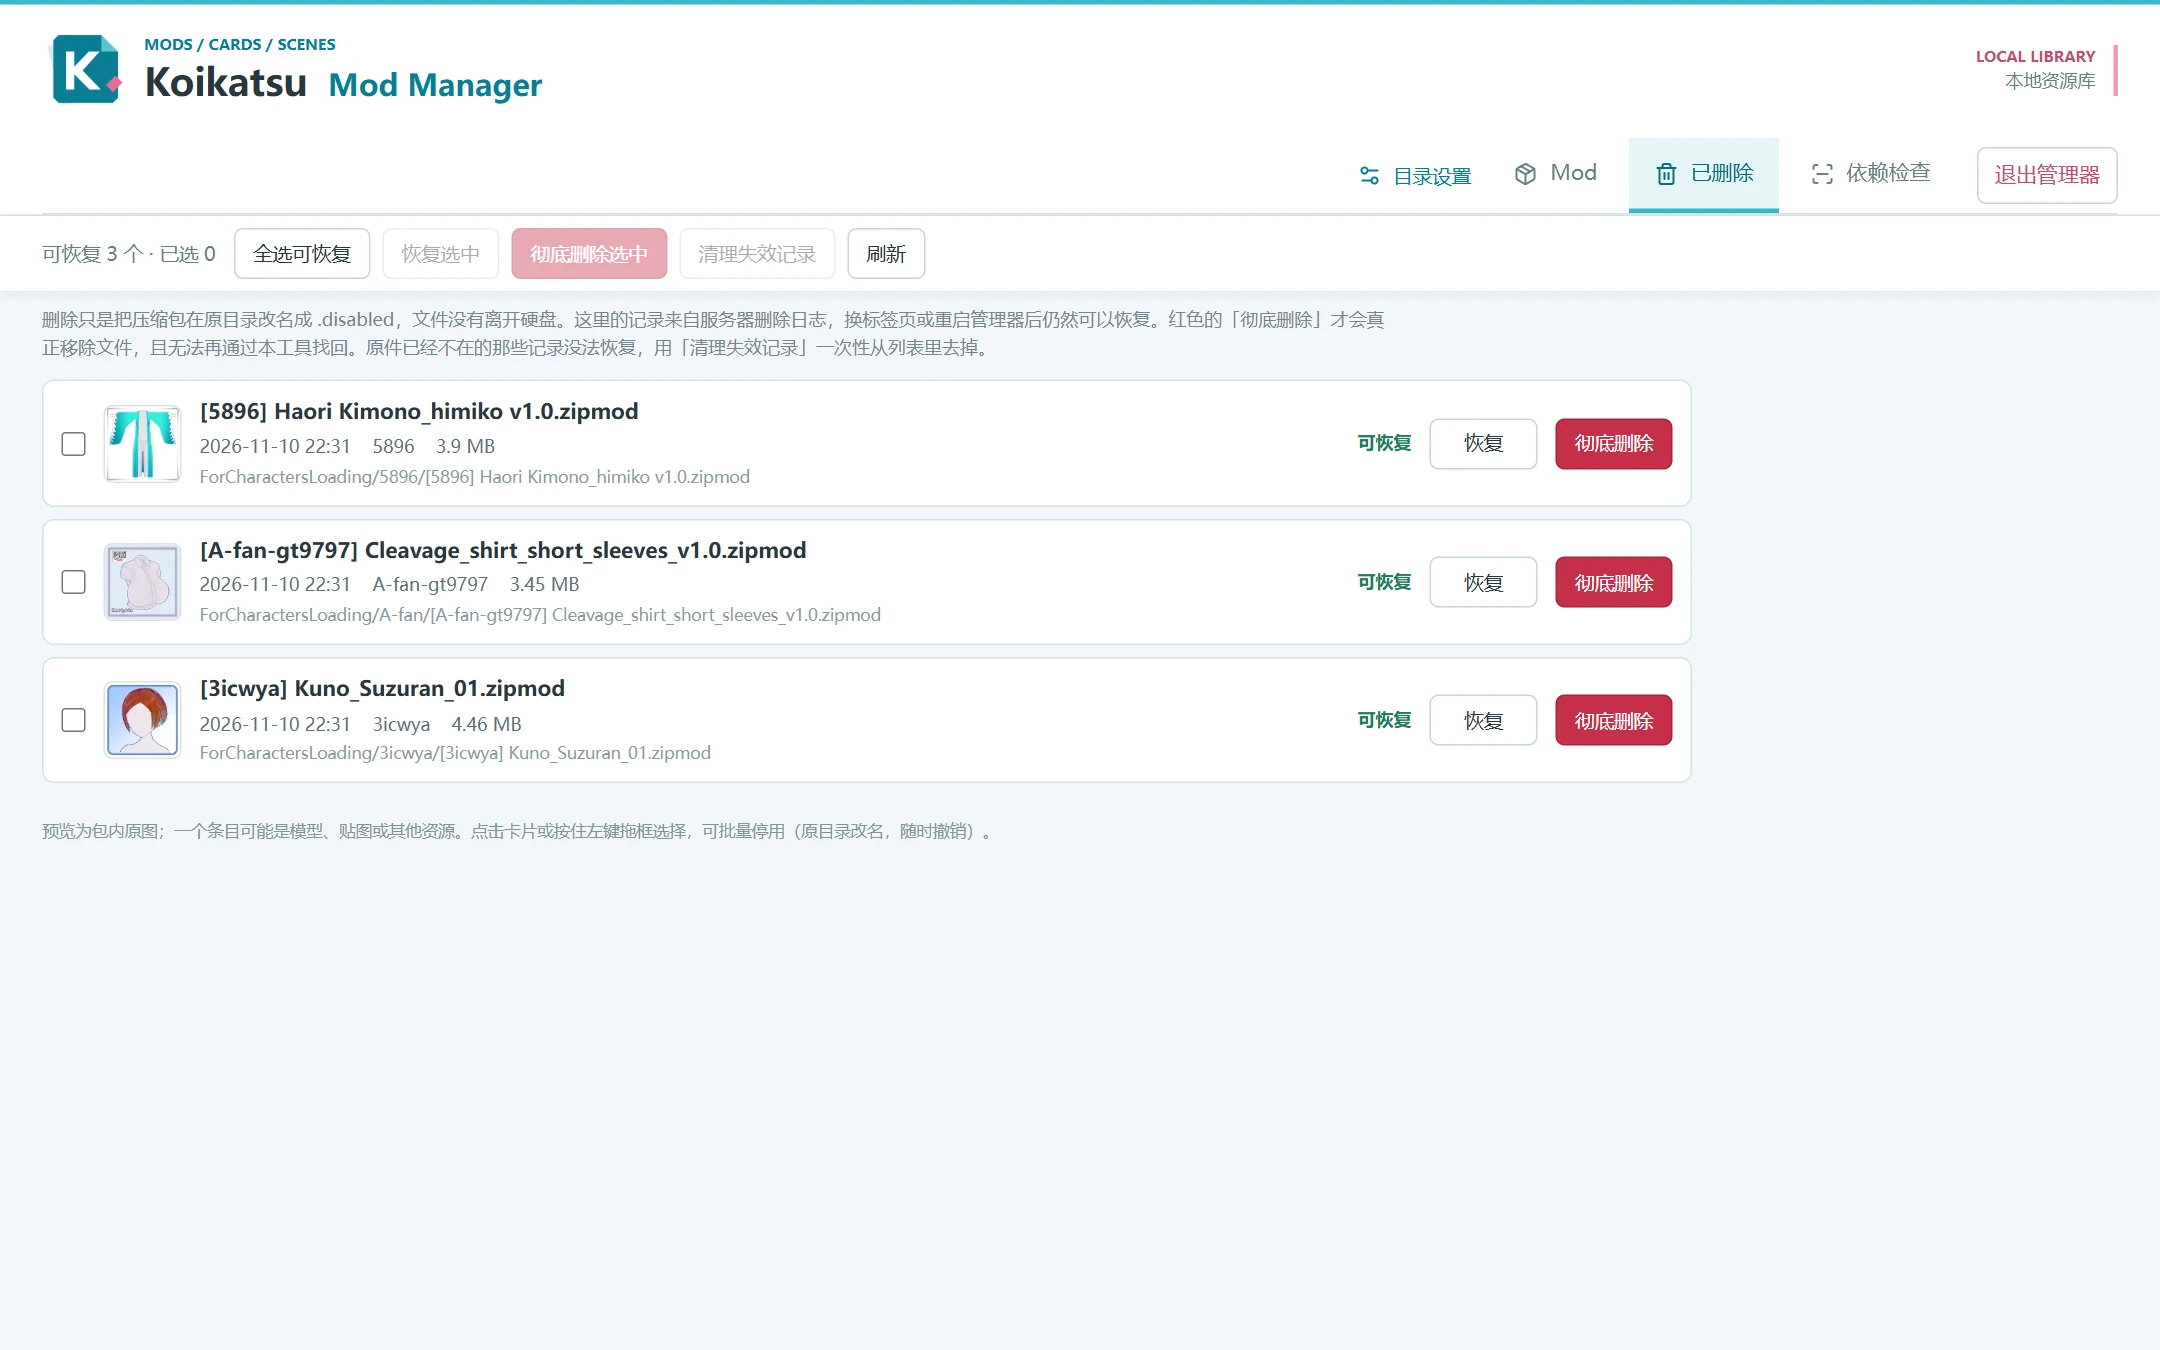
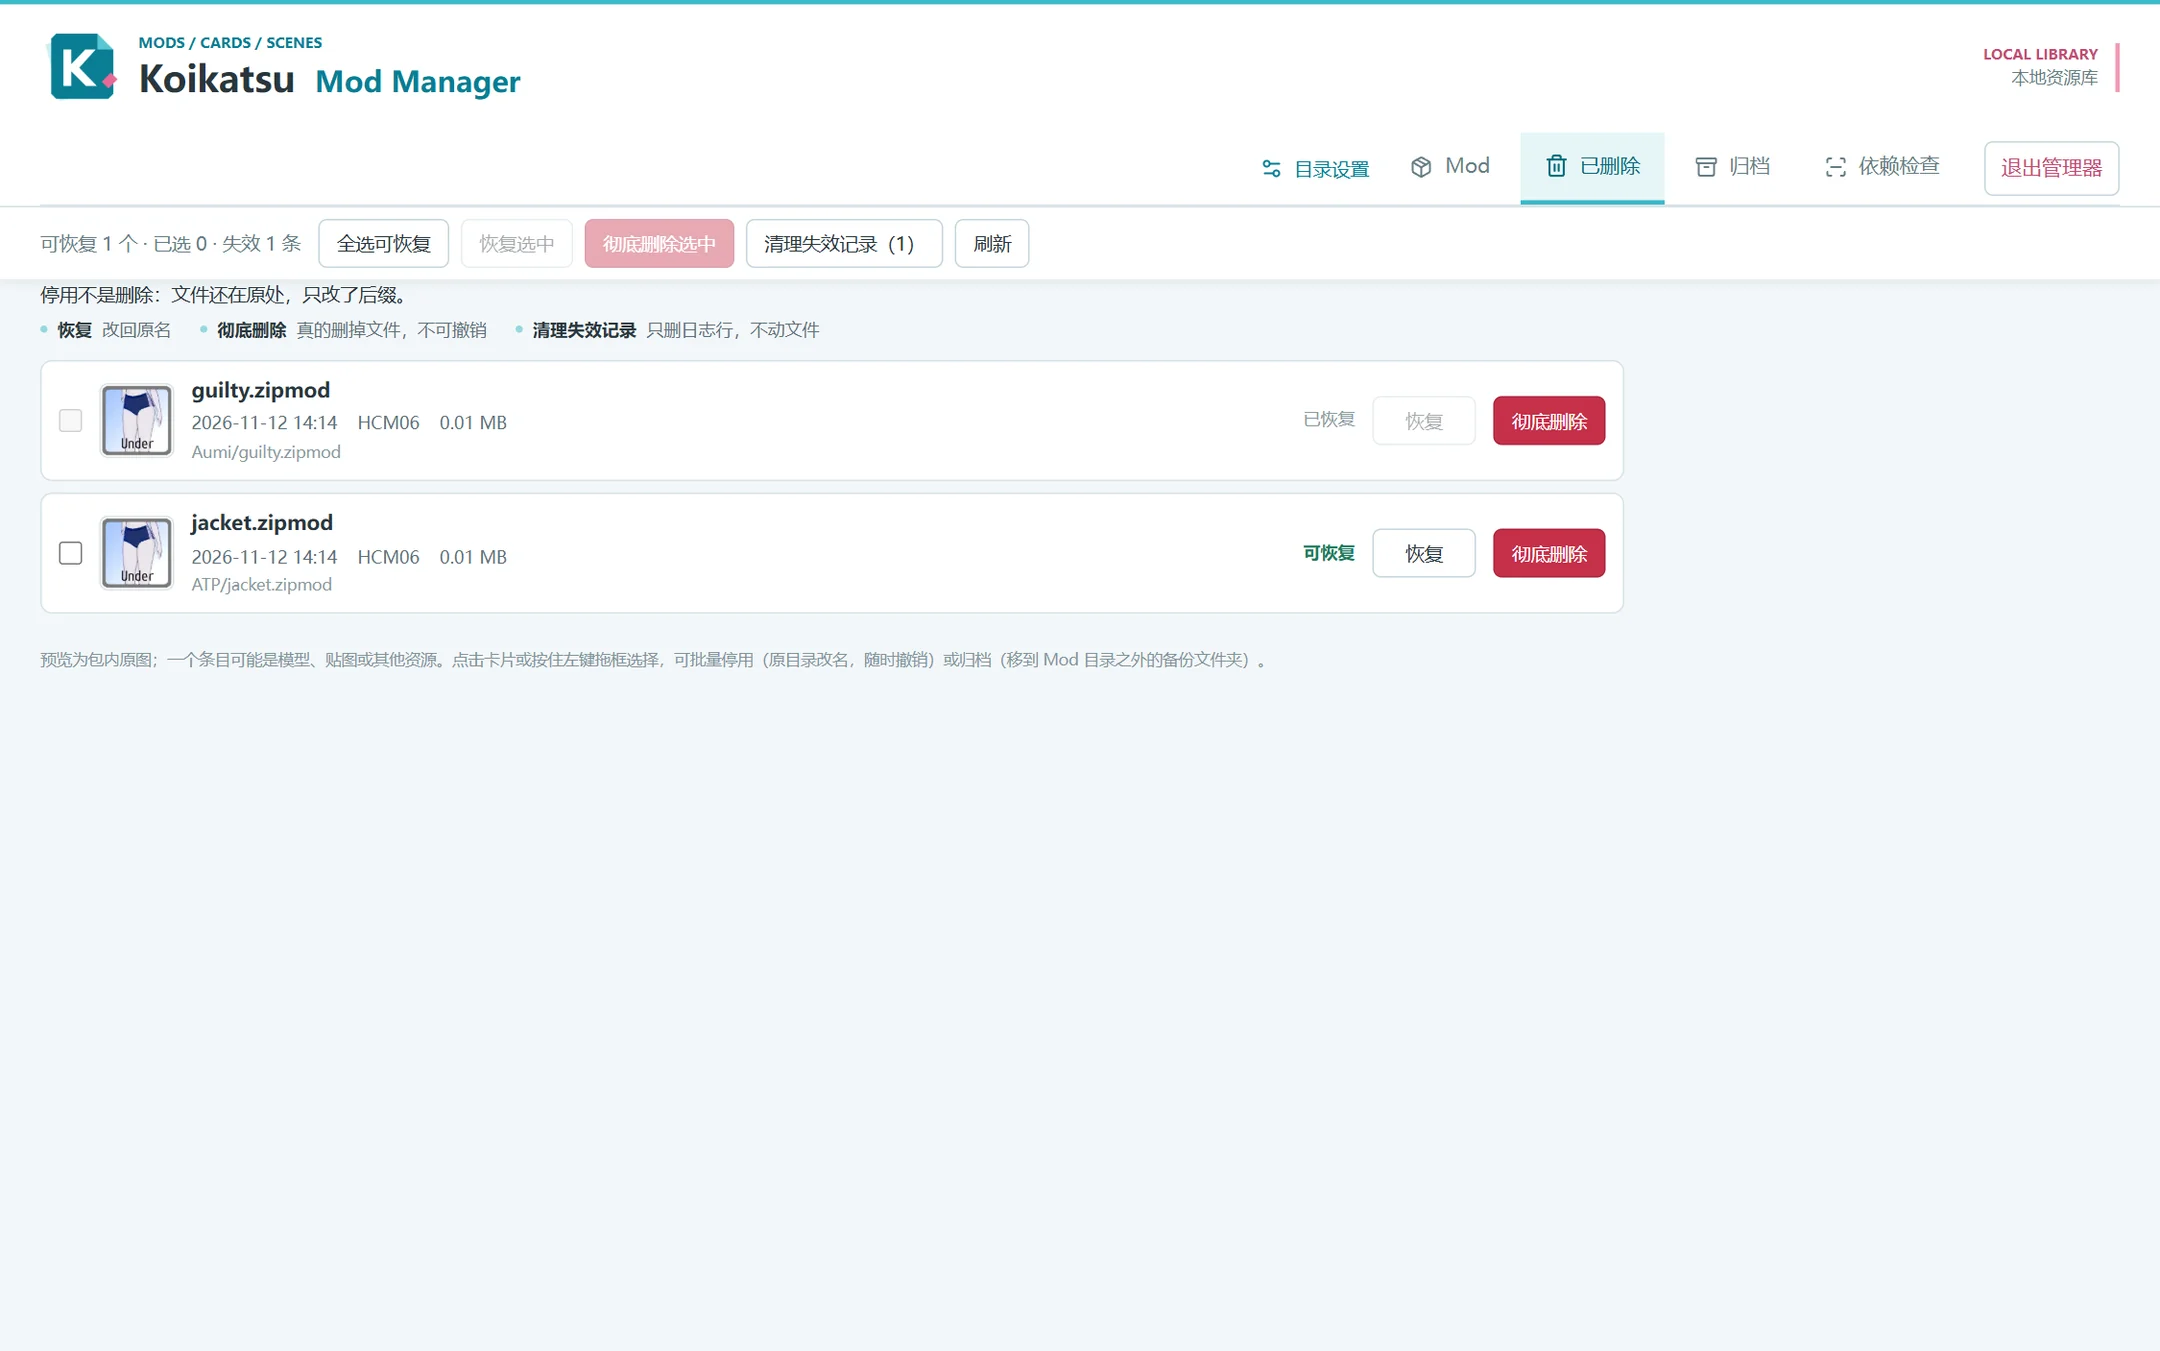
已删除/归档页提示改成一句结论 + 按钮说明
原来是一段四五句的说明，用户读不完也不知道哪个按钮干什么。改成：
- KK.hint() 统一形状：一句导语说这页是什么，配一行「按钮 → 对文件做了什么」，
  圆点分隔，导语用正文色、说明用弱化色，两行读完
- 已删除：停用不是删除 → 恢复/彻底删除/清理失效记录 各自后果
- 归档：移到哪个文件夹 → 取回/本页不删除任何文件
- 不再把 archive-log.jsonl、delete-log.jsonl 这类实现细节写给用户看
- README 的叉号/向下箭头描述同步成图标，trash.webp 用临时根重拍（有两行真实记录）

diff --git a/view-archive.js b/view-archive.js
@@ -45,7 +45,7 @@
   const element = el('div');
   element.id = 'archiveList';
 
-  const help = el('p', '', 'notice trash-help');
+  let help = el('p', '', 'notice page-hint trash-help');
   element.append(help);
 
   const list = el('div', '', 'trash-rows');
@@ -71,12 +71,15 @@
     return ['可取回', 'ready'];
   }
 
-  function helpText() {
+  /* The folder is a setting, so the sentence naming it is rewritten with the
+     list: a stale path would be worse than no sentence at all. Everything else
+     the old paragraph explained is one line of "button does consequence". */
+  function renderHelp() {
     const where = root ? `「${root}」` : '归档文件夹';
-    return '归档会把压缩包整个移动到 ' + where + '，保留它原来的相对路径，'
-      + '游戏不会再加载它，包内文件也不会被改动。'
-      + '这里的记录来自归档文件夹里的 archive-log.jsonl，'
-      + '「取回」会把文件放回 Mod 目录的原位置。本页不会删除任何文件。';
+    return KK.hint(
+      `归档把整个包移到${where}，游戏不会加载它，包内文件一个字节都不改。`,
+      [['取回', '放回 Mod 目录的原位置']],
+      '本页不会删除任何文件', help);
   }
 
   function updateChrome() {
@@ -115,9 +118,9 @@
 
   function renderRows() {
     list.replaceChildren();
-    help.textContent = helpText();
+    help = renderHelp();
     if (!items.length) {
-      list.append(el('p', '还没有任何归档。在 Mod 页点卡片右上角的 ↓，或勾选后点「归档选中」。',
+      list.append(el('p', '还没有任何归档。在 Mod 页点卡片右上角的归档按钮，或勾选后点「归档选中」。',
         'notice'));
       updateChrome();
       return;

diff --git a/app-core.js b/app-core.js
@@ -31,6 +31,25 @@
     return node;
   }
 
+  /* The line above a long list only gets read once, and in a hurry. A paragraph
+     of caveats buries the three things that matter: what this list is, what each
+     button does to a file, and whether any of it is permanent. So: one sentence,
+     then "<button> does <consequence>" pairs. Both the deleted and the archive
+     page say this kind of thing, hence one shape for both. Pass an existing node
+     as `into` when the sentence depends on data that arrives later (the archive
+     page names a configurable folder). */
+  function hint(lead, entries, note, into) {
+    const box = into || el('p', undefined, 'notice page-hint');
+    box.replaceChildren(el('span', lead, 'hint-lead'));
+    for (const [name, meaning] of entries || []) {
+      const pair = el('span', undefined, 'hint-key');
+      pair.append(el('b', name), el('span', meaning));
+      box.append(pair);
+    }
+    if (note) box.append(el('span', note, 'hint-note'));
+    return box;
+  }
+
   const views = [];
   const modHooks = [];
   const facets = [];
@@ -312,7 +331,7 @@
     onModCard,
     applyModHooks: (record, card, meta) => applyHooks(modHooks, record, card, meta),
     setStatus, getStatus: () => statusText,
-    preserveViewport, el, $, link,
+    preserveViewport, el, $, link, hint,
     search: window.KK_MOD_SEARCH ? window.KK_MOD_SEARCH.create() : null,
     currentView: () => active && active.id
   };

diff --git a/maintenance/Test-ModTrash.js b/maintenance/Test-ModTrash.js
@@ -88,6 +88,19 @@ tick().then(() => {
   assert.match($('trashClean').textContent, /清理失效记录（1）/);
   assert.equal($('trashRestore').disabled, true, 'nothing selected yet');
   assert.equal($('trashPurge').disabled, true, 'nothing selected yet');
+
+  /* The hint is read once, in a hurry: one sentence saying what the list is,
+     then each button with what it does to a file. A paragraph of the same facts
+     was what got replaced, so keep it to that shape. */
+  const hint = $('trashList').querySelector('.page-hint');
+  assert.ok(hint, 'the page explains itself above the list');
+  assert.match(hint.querySelector('.hint-lead').textContent, /文件还在原处/);
+  assert.deepEqual(
+    Array.from(hint.querySelectorAll('.hint-key b')).map(node => node.textContent),
+    ['恢复', '彻底删除', '清理失效记录'],
+    'every button on the bar is explained in one place');
+  assert.ok(!/delete-log\.jsonl/.test(hint.textContent),
+    'the log filename is an implementation detail, not a user-facing fact');
   // Restoring is the safe half of the pair, so it stays a plain white button;
   // only the irreversible purge borrows the accent colour.
   assert.equal($('trashRestore').classList.contains('bulk-action'), true);

diff --git a/manager.css b/manager.css
@@ -164,6 +164,18 @@ button:focus-visible{outline:2px solid #175a89;outline-offset:2px}
 #trashList{padding:0 28px 24px}
 #archiveList{padding:0 28px 24px}
 .trash-help{max-width:900px;line-height:1.6}
+/* One sentence for context, then a row of "<button> does <what to the file>".
+   The dots do the separating, so the row stays readable when it wraps. The
+   .notice specificity is deliberate: theme.css loads after this file and would
+   otherwise turn the whole line grey. */
+.notice.page-hint{max-width:1100px;display:flex;flex-wrap:wrap;align-items:center;
+  gap:5px 20px;margin:0;padding:0;color:var(--ink);line-height:1.5}
+.hint-lead{flex:1 0 100%;font-size:13px}
+.hint-key{display:inline-flex;align-items:center;gap:7px;font-size:12px;color:#5d717a}
+.hint-key b{font-weight:600;color:var(--ink)}
+.hint-key::before{content:"";width:5px;height:5px;border-radius:50%;flex:none;
+  background:#39b9c8;opacity:.5}
+.hint-note{font-size:12px;color:#5d717a}
 .trash-rows{display:flex;flex-direction:column;gap:8px;margin-top:12px;max-width:1100px}
 .trash-row{display:grid;grid-template-columns:auto auto minmax(0,1fr) auto auto auto;
   gap:12px;align-items:center;padding:10px 12px;border:1px solid var(--line);

diff --git a/view-trash.js b/view-trash.js
@@ -59,12 +59,14 @@
   const element = el('div');
   element.id = 'trashList';
 
-  const HELP = '删除只是把压缩包在原目录改名成 .disabled，文件没有离开硬盘。'
-    + '这里的记录来自服务器删除日志，换标签页或重启管理器后仍然可以恢复。'
-    + '红色的「彻底删除」才会真正移除文件，且无法再通过本工具找回。'
-    + '原件已经不在的那些记录没法恢复，用「清理失效记录」一次性从列表里去掉。';
-
-  const help = el('p', HELP, 'notice trash-help');
+  /* What the page is, then what each button does to a file. The old version was
+     four sentences of the same facts in a row, which nobody reads twice. */
+  const help = KK.hint('停用不是删除：文件还在原处，只改了后缀。', [
+    ['恢复', '改回原名'],
+    ['彻底删除', '真的删掉文件，不可撤销'],
+    ['清理失效记录', '只删日志行，不动文件']
+  ]);
+  help.classList.add('trash-help');
   element.append(help);
 
   const list = el('div', '', 'trash-rows');

diff --git a/maintenance/Test-Archive.js b/maintenance/Test-Archive.js
@@ -126,6 +126,13 @@ tick().then(() => {
     // feature, and the folder is configurable.
     assert.match($('archiveList').querySelector('.trash-help').textContent,
       /D:\\Koikatu\\mods_archive/);
+    // Same hint shape as the deletion page: one sentence, then what 取回 does.
+    const hint = $('archiveList').querySelector('.page-hint');
+    assert.ok(hint, 'the archive page explains itself above the list');
+    assert.match(hint.querySelector('.hint-lead').textContent, /一个字节都不改/);
+    assert.equal(hint.querySelectorAll('.hint-key').length, 1);
+    assert.ok(!/archive-log\.jsonl/.test(hint.textContent),
+      'the log filename is an implementation detail, not a user-facing fact');
     assert.match($('archiveCount').textContent, /可取回 1 个/);
 
     /* No destructive control: archiving is a backup, and the page that erases

diff --git a/maintenance/Test-PackagedExe.py b/maintenance/Test-PackagedExe.py
@@ -383,6 +383,9 @@ def main():
             assert b".delete::before" in theme and b".archive::before" in theme, \
                 "card actions must paint their icons"
             assert b".detection-download{" in style
+            # The hint above the deletion and archive lists is one sentence plus
+            # a row of "button does what", not a paragraph of caveats.
+            assert b".notice.page-hint{" in style and b".hint-key" in style
             # Archiving ships as its own tab beside the deletion list, with the
             # button that moves a package out of the mods tree on every card.
             assert b"view-archive.js" in page, page[:2000]

diff --git a/README.md b/README.md
@@ -44,9 +44,9 @@
 
 **停用**适合「游戏别加载它」，**归档**适合「保留这份文件，但不装在游戏里」。两个动作互不影响，也不共用记录。
 
-点 Mod 右上角的叉号即停用：文件名末尾追加 `.modmanager-<时间>.disabled`，**文件留在原目录**，游戏不再加载；恢复只是把名字改回去。
+点 Mod 卡片右上角的垃圾桶图标即停用：文件名末尾追加 `.modmanager-<时间>.disabled`，**文件留在原目录**，游戏不再加载；恢复只是把名字改回去。
 
-点旁边的向下箭头即归档：整个压缩包被**移动到 Mod 目录之外的归档文件夹**（默认 `<游戏目录>\mods_archive`，可在目录设置里改），并保留原来的相对路径，比如 `mods\Aumi\guilty.zipmod` 会变成 `mods_archive\Aumi\guilty.zipmod`。包内文件不做任何改动，游戏也不会再扫描到它。
+点它左边的档案盒图标即归档：整个压缩包被**移动到 Mod 目录之外的归档文件夹**（默认 `<游戏目录>\mods_archive`，可在目录设置里改），并保留原来的相对路径，比如 `mods\Aumi\guilty.zipmod` 会变成 `mods_archive\Aumi\guilty.zipmod`。包内文件不做任何改动，游戏也不会再扫描到它。
 
 ![已删除：每条记录带封面、大小和「还能不能恢复」的说明，可单选或全选后批量恢复](docs/screenshots/trash.webp)
 
